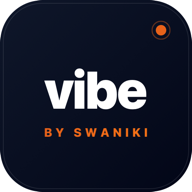
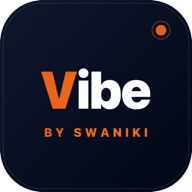
feat: capitalize V in Vibe with orange hover transition and District structure

Changed region(s): [[0.2188, 0.3438, 0.8125, 0.5938]]

diff --git a/src/components/common/Navbar.tsx b/src/components/common/Navbar.tsx
@@ -114,15 +114,16 @@ export default function Navbar() {
         {/* Tier 1: Main Header Bar (MakeMyTrip & BookMyShow style) */}
         <div className="max-w-7xl mx-auto px-4 sm:px-6 lg:px-8">
           <div className="flex items-center justify-between h-16 gap-3 sm:gap-6">
-            {/* Left: Brand Logo (District by Zomato style: vibe over BY SWANIKI) */}
+            {/* Left: Brand Logo (District by Zomato style: Vibe over BY SWANIKI with V turning orange on hover) */}
             <div className="flex items-center shrink-0">
               <Link
                 href="/"
                 className="flex flex-col group select-none py-0.5"
                 title="Vibe by Swaniki"
               >
-                <span className="font-display font-black text-2xl sm:text-[28px] text-[#0F172A] tracking-tight group-hover:text-black transition-colors leading-none">
-                  vibe
+                <span className="font-display font-black text-2xl sm:text-[28px] text-[#0F172A] tracking-tight leading-none">
+                  <span className="transition-colors duration-200 group-hover:text-[#E8621A]">V</span>
+                  <span>ibe</span>
                 </span>
                 <span className="text-[8.5px] sm:text-[9.5px] font-black tracking-[0.22em] text-[#E8621A] uppercase leading-none pt-1">
                   BY SWANIKI

diff --git a/src/components/common/Footer.tsx b/src/components/common/Footer.tsx
@@ -99,8 +99,9 @@ export default function Footer() {
               className="inline-flex flex-col group select-none py-0.5"
               title="Vibe by Swaniki"
             >
-              <span className="font-display font-black text-2xl sm:text-[28px] text-[#0F172A] tracking-tight group-hover:text-black transition-colors leading-none">
-                vibe
+              <span className="font-display font-black text-2xl sm:text-[28px] text-[#0F172A] tracking-tight leading-none">
+                <span className="transition-colors duration-200 group-hover:text-[#E8621A]">V</span>
+                <span>ibe</span>
               </span>
               <span className="text-[8.5px] sm:text-[9.5px] font-black tracking-[0.22em] text-[#E8621A] uppercase leading-none pt-1">
                 BY SWANIKI
